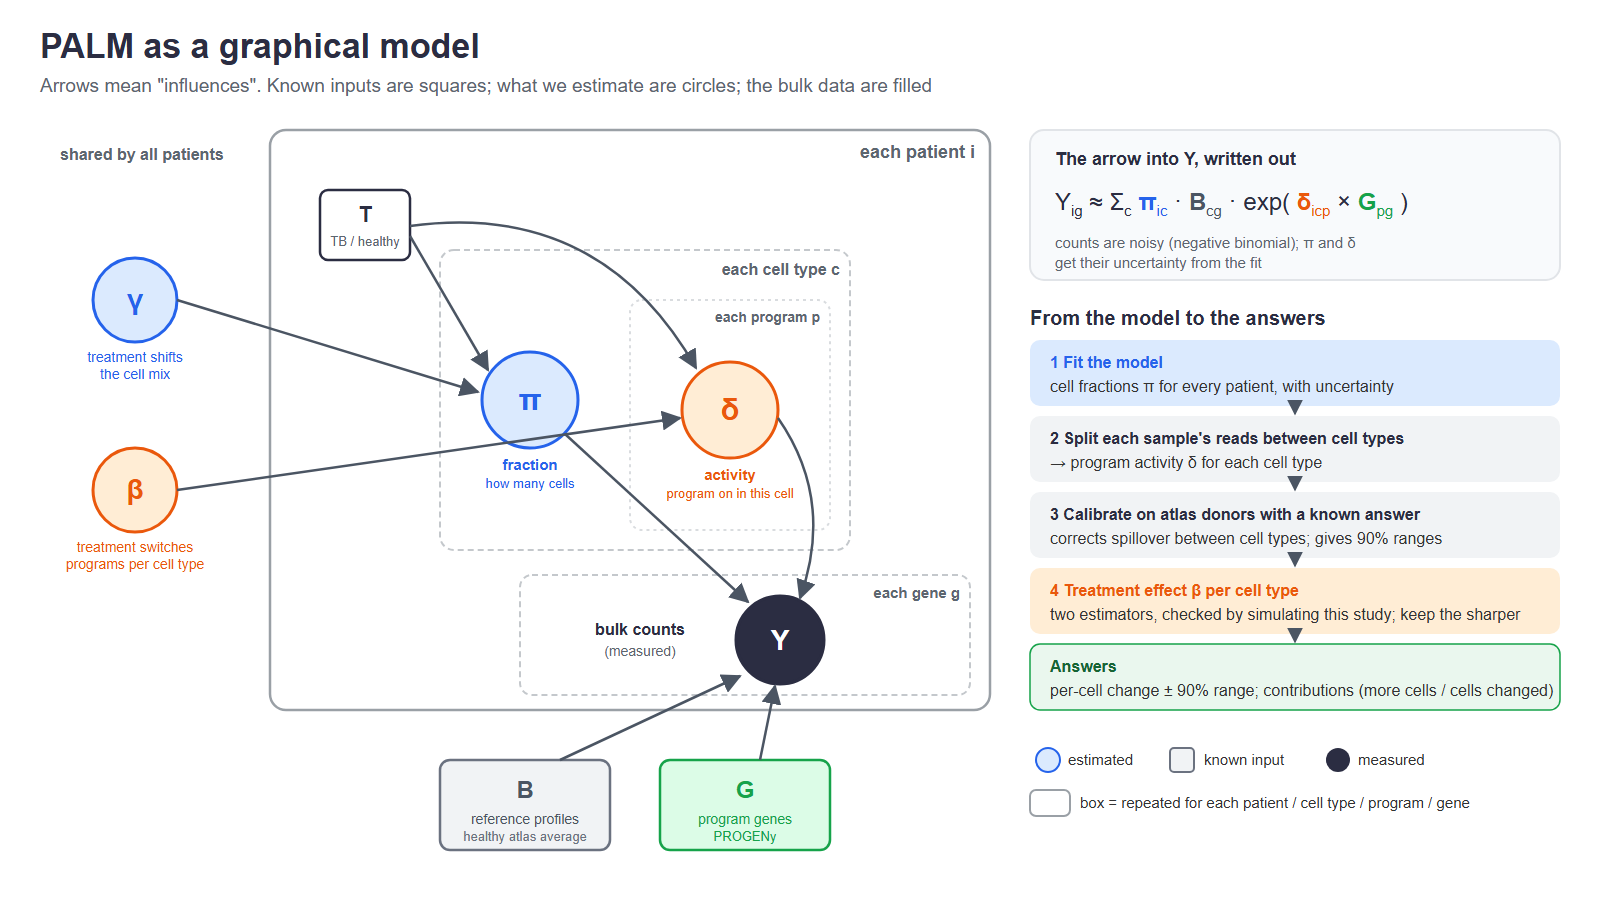
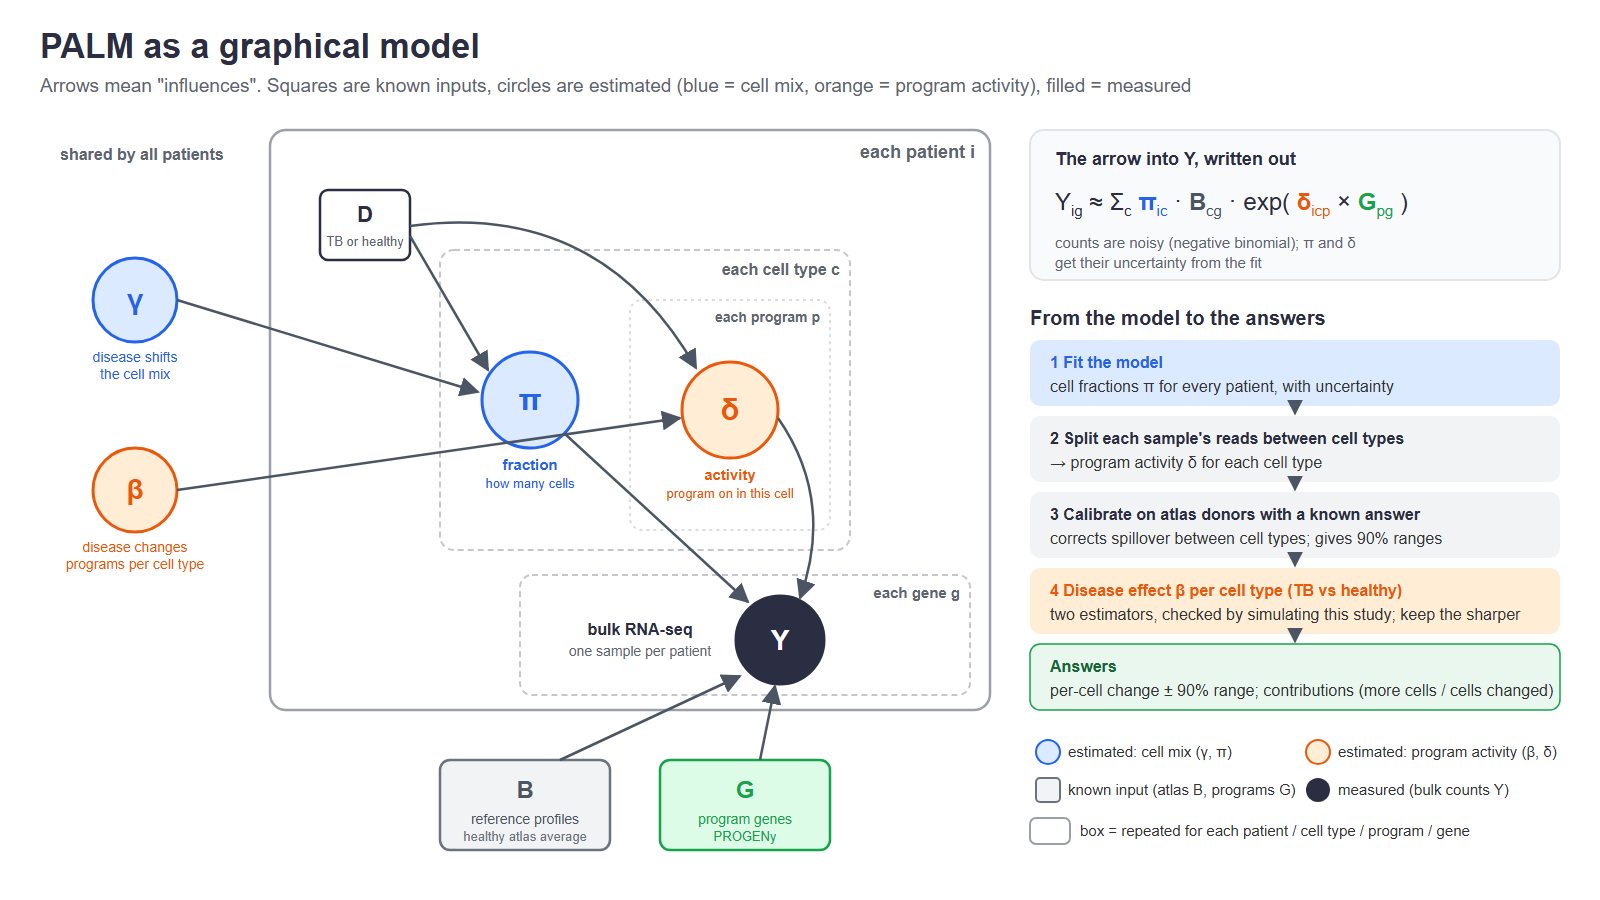
Talk graphical models: disease (D, TB or healthy) instead of treatment, colour legend (blue cell mix, orange program activity), Y labelled bulk RNA-seq per patient

diff --git a/scripts/experiments/talk_graphical_models.py b/scripts/experiments/talk_graphical_models.py
@@ -89,7 +89,7 @@ def slide(tb_only):
     if tb_only:
         s.append(circle(115, 320, 40, BLUE_F, BLUE, "a", "average", "cell mix", lab_size=28))
     else:
-        s.append(circle(115, 320, 40, BLUE_F, BLUE, "γ", "treatment", "shifts the mix", lab_size=28))
+        s.append(circle(115, 320, 40, BLUE_F, BLUE, "γ", "disease", "shifts the mix", lab_size=28))
     s.append(circle(115, 500, 40, ORANGE_F, ORANGE, "κ", "average program", "activity", lab_size=28))
 
     s.append(plate(220, 190, 670, 520, "each patient i", dash="0", color="#9aa0a6", width=2.5))
@@ -100,7 +100,7 @@ def slide(tb_only):
     if tb_only:
         s.append(box(240, 215, 125, 66, PURPLE_F, PURPLE, "z", "clinical measure", dash="7 4", size=22))
     else:
-        s.append(box(240, 215, 125, 66, "#ffffff", DARK, "T", "TB / healthy", color=DARK, size=22))
+        s.append(box(240, 215, 125, 66, "#ffffff", DARK, "D", "TB or healthy", color=DARK, size=22))
     s.append(circle(460, 375, 46, BLUE_F, BLUE, "π", "fraction", "how many cells"))
     s.append(circle(640, 375, 42, ORANGE_F, ORANGE, "δ", None))
     s.append(text(690, 372, "activity", 15, ORANGE, "bold"))
@@ -199,7 +199,8 @@ def slide(tb_only):
     lx = 40
     s.append(text(lx, 728, "Legend", 15, DARK, "bold"))
     s.append('<circle cx="%g" cy="750" r="10" fill="%s" stroke="%s" stroke-width="2"/>' % (lx + 10, BLUE_F, BLUE))
-    s.append(text(lx + 28, 755, "estimated", 13.5, "#333"))
+    s.append('<circle cx="%g" cy="750" r="10" fill="%s" stroke="%s" stroke-width="2"/>' % (lx + 34, ORANGE_F, ORANGE))
+    s.append(text(lx + 52, 755, "estimated: cell mix / program activity", 13.5, "#333"))
     s.append('<rect x="%g" y="767" width="20" height="20" rx="4" fill="%s" stroke="%s" stroke-width="2"/>' % (lx, GREY_F, GREY))
     s.append(text(lx + 28, 782, "known input", 13.5, "#333"))
     s.append('<circle cx="%g" cy="804" r="10" fill="%s"/>' % (lx + 10, DARK))
